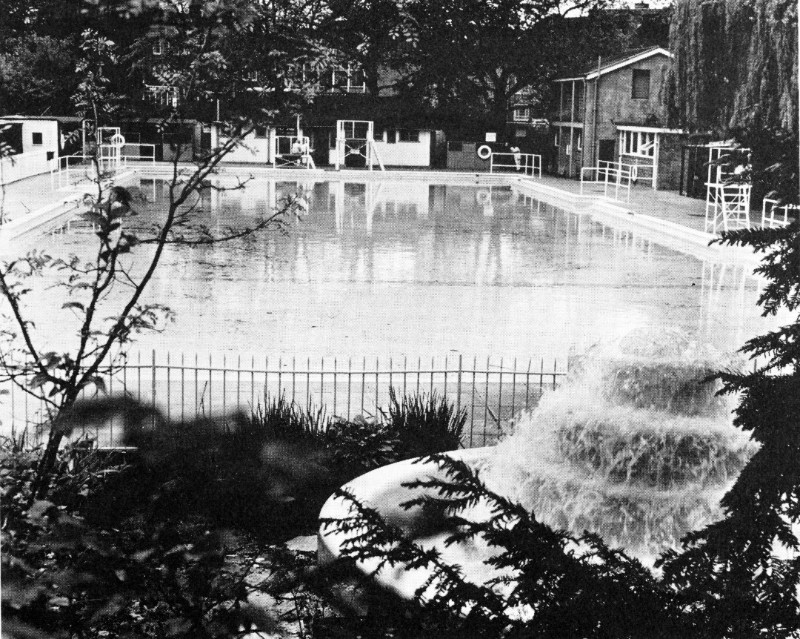
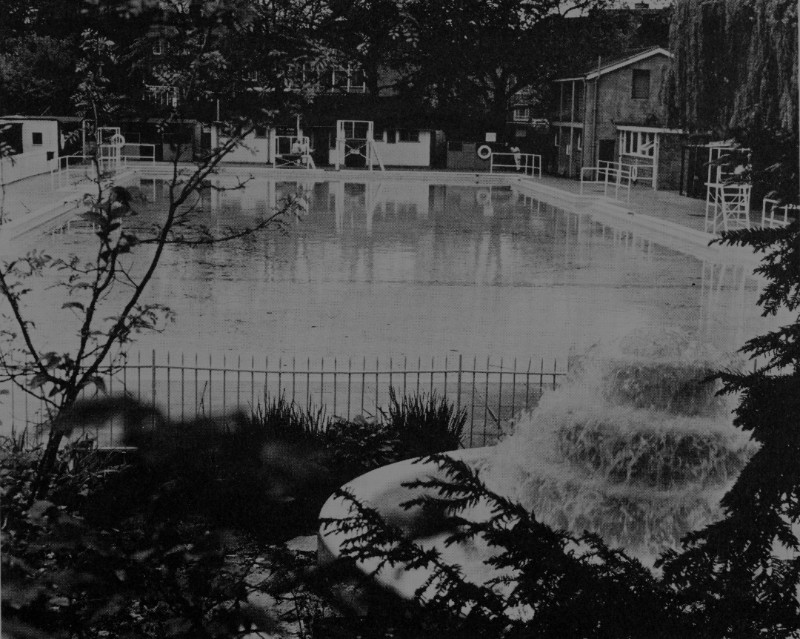
Replaced blend mode with image with multiply effect

diff --git a/src/index.html b/src/index.html
@@ -1249,10 +1249,10 @@
 					<a class="social-sharing__link share-pop" target="_blank" href="http://www.facebook.com/sharer.php?u=https%3A%2F%2Fpeckhamlido.com"><i class="fa fa-facebook"></i></a>
 				</li>
 				<li class="social-sharing__item">
-					<a class="social-sharing__link share-pop" target="_blank" href="https://twitter.com/share?url=https%3A%2F%2Fpeckhamlido.com&amp;text=Peckham%20Lido&amp;hashtags=peckhamlido"><i class="fa fa-twitter"></i></a>
+					<a class="social-sharing__link share-pop" target="_blank" href="https://twitter.com/share?url=https%3A%2F%2Fpeckhamlido.com&amp;text=Reviving%20one%20of%20London%E2%80%99s%20forgotten%20community%20hubs%20for%20our%20generation&amp;hashtags=peckhamlido"><i class="fa fa-twitter"></i></a>
 				</li>
 				<li class="social-sharing__item">
-					<a class="social-sharing__link" href="mailto:?subject=Peckham%20Lido&amp;body=https%3A%2F%2Fpeckhamlido.com"><i class="fa fa-envelope"></i></a>
+					<a class="social-sharing__link" href="mailto:?subject=Peckham%20Lido&amp;body=Reviving%20one%20of%20London%E2%80%99s%20forgotten%20community%20hubs%20for%20our%20generation%3A%20https%3A%2F%2Fpeckhamlido.com"><i class="fa fa-envelope"></i></a>
 				</li>
 			</ul>
 		</div>

diff --git a/src/scss/components/_about.scss b/src/scss/components/_about.scss
@@ -3,8 +3,6 @@
   background-size: cover;
   background-position: 25% 0;
   background-repeat: no-repeat;
-  background-color: $about-bg;
-  background-blend-mode: multiply;
 
   @media(min-width: $bp-small-med) {
     background-image: url(/assets/images/peckham-lido-classic-bw.jpg);
